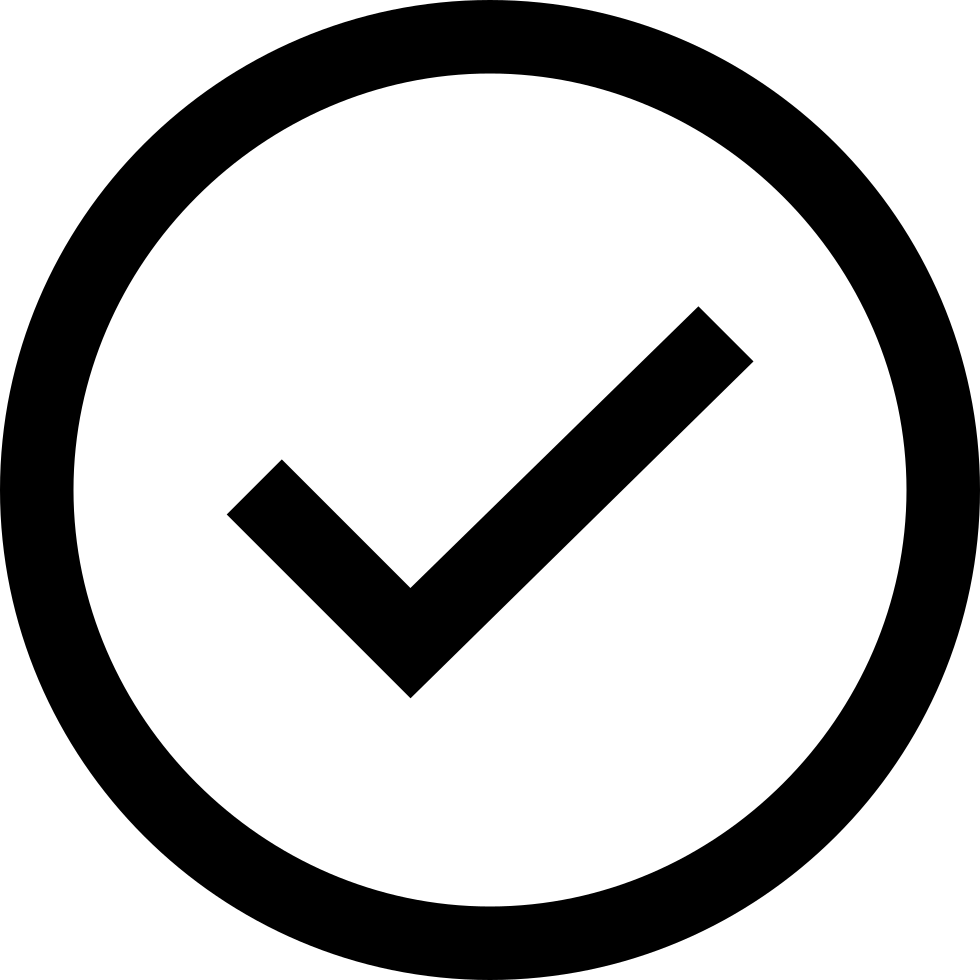
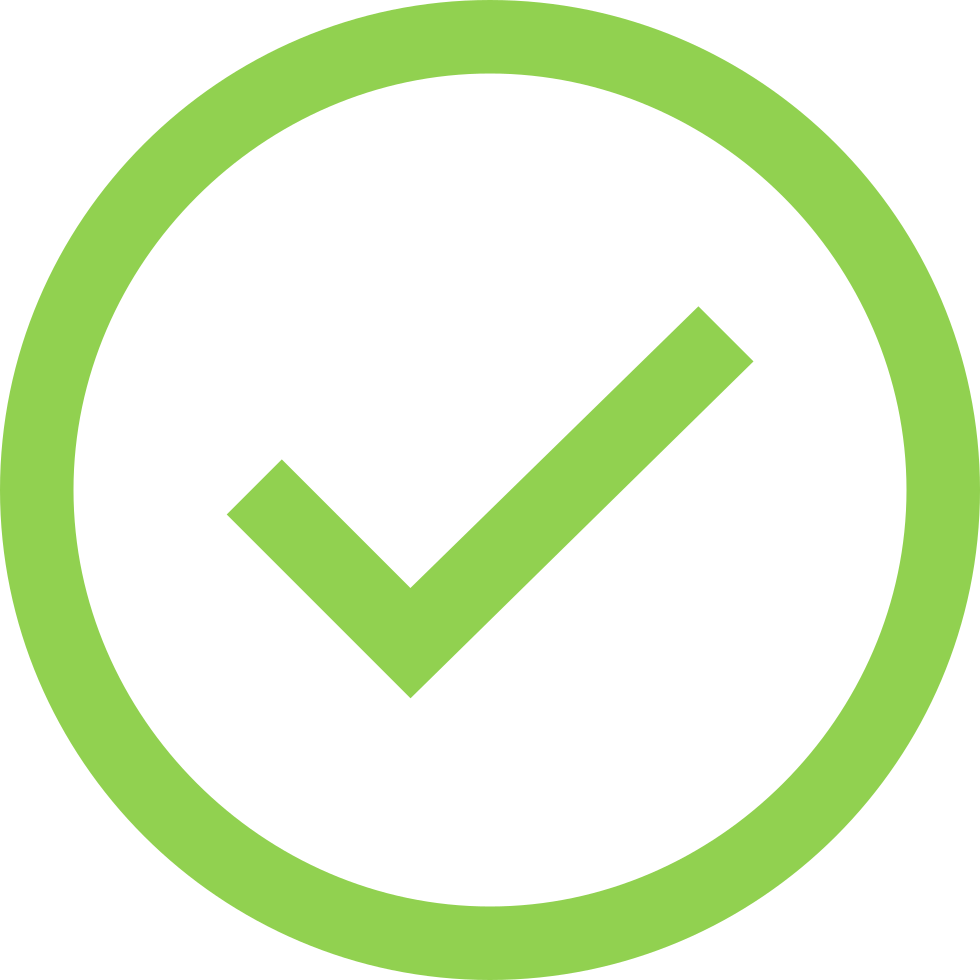
Added save indicator to clinician notes section.

Changed region(s): [[0.0, 0.0, 1.0, 1.0], [0.2143, 0.3061, 0.7653, 0.7041]]

diff --git a/client/src/styles/patient.css b/client/src/styles/patient.css
@@ -139,12 +139,13 @@
 }
 
 .DateBlock, .NoteBlock {
+  position: relative;
   display: flex;
   justify-content: center;
   align-content: center;
   flex-direction: column;
   
-  height: 39px;
+  height: 41px;
 
   border: 1px solid #A9A9A9;
 
@@ -156,6 +157,30 @@
 
 @media (min-width: 700px) {
   .DateBlock, .NoteBlock {
+    height: 49px;
+    font-size: 0.7em;
+  } 
+}
+
+.SavedNoteBlock {
+  position: relative;
+  display: flex;
+  justify-content: center;
+  align-content: center;
+  flex-direction: column;
+  
+  height: 39px;
+
+  border: 2px solid #91D150;
+
+  text-align: center;
+  font-size: 0.5em;
+  color: #000000;
+  font-weight: 700;
+} 
+
+@media (min-width: 700px) {
+  .SavedNoteBlock {
     height: 47px;
     font-size: 0.7em;
   } 
@@ -167,7 +192,7 @@
 
 .StatusBlock {
   width: 40px;
-  height: 39px;
+  height: 41px;
 
   display: flex;
   justify-content: center;
@@ -182,13 +207,13 @@
 }
 @media (min-width: 700px) {
   .StatusBlock {
-    height: 47px;
+    height: 49px;
     width: 60px; 
     font-size: 2em;
   }
 }
 
-.NoteBlock {
+.NoteBlock, .SavedNoteBlock {
   width: 85%;
 }
 
@@ -206,4 +231,37 @@
   font-size: 1.0em;
   font-family: inherit;
   font-weight: 400;
+}
+
+.SavedNoteBlock textarea {
+  padding-left: 8px;
+  padding-top: 3px;
+  padding-bottom: 2px;
+
+  height: 100%;
+  hyphens: auto;
+
+  border: 0px;
+  resize: none;
+
+  font-size: 1.0em;
+  font-family: inherit;
+  font-weight: 700;
+}
+
+.Success {
+  position: absolute;
+  width: 10px;
+  bottom: 0;
+  right: 3px;
+}
+@media (min-width: 700px) {
+  .Success {
+    width: 15px;
+  }
+}
+
+
+.SuccessLogo {
+  width: 100%;
 }

diff --git a/client/src/components/PatNotes.js b/client/src/components/PatNotes.js
@@ -70,6 +70,23 @@ class GridSquare extends Component {
 	}
 }
 
+class SuccessLogo extends Component {
+	render() {
+		if (this.props.saved) {
+			return(
+				<div className="Success">
+					<img className="SuccessLogo" src={success} alt="" />
+				</div>
+			);
+		} else {
+			return(
+				<div></div>
+			);
+		}
+		
+	}
+}
+
 class NoteBlock extends Component {
 	constructor(props) { 
 		super(props)
@@ -93,7 +110,8 @@ class NoteBlock extends Component {
 			date: date,
 			note: note,
 			timestamp: timestamp,
-			author: author
+			author: author,
+			saved: false,
 		};
 
 		var payload = JSON.stringify(noteObj)
@@ -119,20 +137,28 @@ class NoteBlock extends Component {
 	render() {
 		var date = this.props.date
 		var uuid = this.props.uuid
-		console.log(uuid)
 		var id   = "notesOn"+date
+		var noteStyle;
+
+		if (this.state.saved) {
+			noteStyle = "SavedNoteBlock"		
+		} else {
+			noteStyle = "NoteBlock"
+		}
+
 		return(
-			<div className="NoteBlock">
+			<div className={noteStyle} >
                 <textarea
               	  placeholder="No notes recorded"
               	  value={this.state.note}
               	  id={id}
               	  onChange = { (e) => {
-              	  	this.setState({note: e.target.value})
+              	  	this.setState({ note: e.target.value })
               	  	this.saveNote(e.target.value,uuid,date)
               	  }}
                 >
             	</textarea>
+        		<SuccessLogo saved={this.state.saved} />
 			</div>
 		);
 	}
